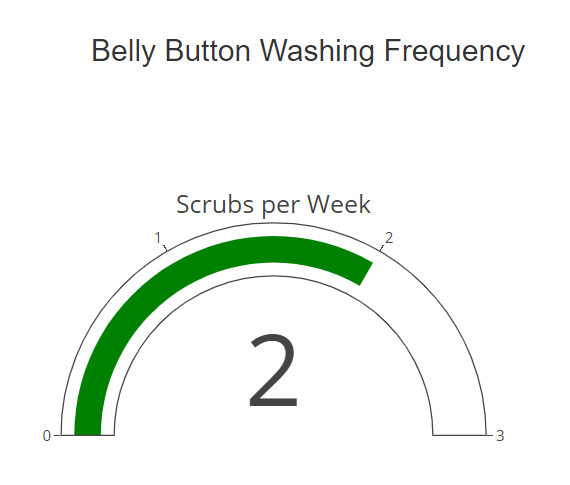
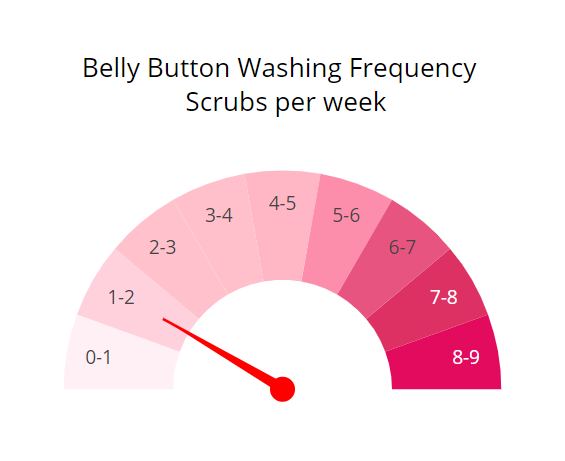
gauge chart modified

Changed region(s): [[0.0602, 0.3644, 0.9027, 0.9111], [0.1504, 0.0607, 0.9327, 0.243]]

diff --git a/static/app.js b/static/app.js
@@ -83,27 +83,103 @@ function optionChanged() {
         Plotly.newPlot('bubble', bubbleChartData, layoutBubble)
         
         // create gauge chart
-        var trace3 = {
-            domain: {x: [0, 1], y: [0, 1]},
-            title: {text: "Scrubs per Week"},
-            value: metadata.wfreq,
-            type: "indicator",
-            mode: "gauge+number"
-        }
+        // needle
+        var degrees = 9 - metadata.wfreq,
+            radius = .5
+        var radians = degrees * Math.PI / 9
+        var x = radius * Math.cos(radians)
+        var y = radius * Math.sin(radians)
 
-        var gaugeChartData = [trace3]
+        //  constructing the path where x is the xpath, and y is the ypath, and z is the end path
+        var mainPath = 'M -.0 -0.025 L .0 0.025 L '
+        var path = mainPath.concat(`${x}  ${y}  z`)
+
+        var gaugeChartData = [{
+            type: 'scatter',
+            x: [0],
+            y: [0],
+            marker: {size: 20, color: 'red'},
+            showlegend: false,
+            name: "Scrubs/Week",
+            text: metadata.wfreq
+        },
+        {
+            textinfo: 'text',
+            textposition: 'inside',
+            hole: .5,
+            type: 'pie',
+            showlegend: false,
+            marker: { colors: ['#FFF0F5','#FFD1DC','#FFC1CC','#FFC0CB','#FFB7C5','#FC8EAC','#E75480','#DE3163','#E30B5D','white']},
+            values: [ 81/9, 81/9, 81/9, 81/9, 81/9, 81/9, 81/9, 81/9, 81/9, 81],
+            rotation: 90,
+            text: ['0-1','1-2','2-3','3-4','4-5','5-6','6-7','7-8','8-9'],
+            direction: 'clockwise',
+            hoverinfo: 'text'
+        }]
 
         var layoutGauge = {
+            shapes: [{
+                type: 'path',
+                path: path,
+                fillcolor: 'red',
+                line: {
+                    color: 'red'
+                }
+            }],
+            title: 'Belly Button Washing Frequency <br> Scrubs per week',
+            font: {
+                weight: "bold",
+                size: 15,
+                color: "black"
+            },
+            height: 500,
             width: 500,
-            height: 400,
             margin: {
-                t: 0,
-                b: 0
-            }
-        }
+                l: 0,
+                r: 0,
+                b: 0,
+                t: 150
+            },
+            // Scaling the axes 
+            xaxis: { zeroline: false, showticklabels: false, showgrid: false, range: [-1, 1] },
+            yaxis: { zeroline: false, showticklabels: false, showgrid: false, range: [-1, 1] }
+        };
 
         Plotly.newPlot("gauge", gaugeChartData, layoutGauge)
     })
+            // showlegend: false,
+            // hole: 0.4,
+            // rotation: 90,
+            // values: [ 81/9, 81/9, 81/9, 81/9, 81/9, 81/9, 81/9, 81/9, 81/9, 81],
+            // text: ['0-1','1-2','2-3','3-4','4-5','5-6','6-7','7-8','8-9'],
+            // direction: 'clockwise',
+            // textinfo: 'text',
+            // textposition: 'inside',
+            // marker: {
+            //     colors: ['#FFF0F5','#FFD1DC','#FFC1CC','#FFC0CB','#FFB7C5','#FC8EAC','#E75480','#DE3163','#E30B5D','white'],
+            // }
+        // }
+
+        // var gaugeChartData = [trace3]
+
+        // var layoutGauge = {
+        //     shapes: [{
+        //         type: 'line',
+        //         x0: 0,
+        //         y0: 0,
+        //         x1: x,
+        //         y1: y,
+        //         line: {
+        //           color: 'black',
+        //           width: 3
+        //         }
+        //       }],
+        //       title: 'Chart',
+        //       xaxis: {visible: false, range: [-1, 1]},
+        //       yaxis: {visible: false, range: [-1, 1]}
+        // }
+
+        // Plotly.newPlot("gauge", gaugeChartData, layoutG)
 }
 
 // opening funtion

diff --git a/index.html b/index.html
@@ -35,7 +35,6 @@
         <div id="bar"></div>
       </div>
       <div class="col-md-6">
-        <h3 class="text-center">Belly Button Washing Frequency</h3>
         <div id="gauge"></div>
       </div>
     </div>
